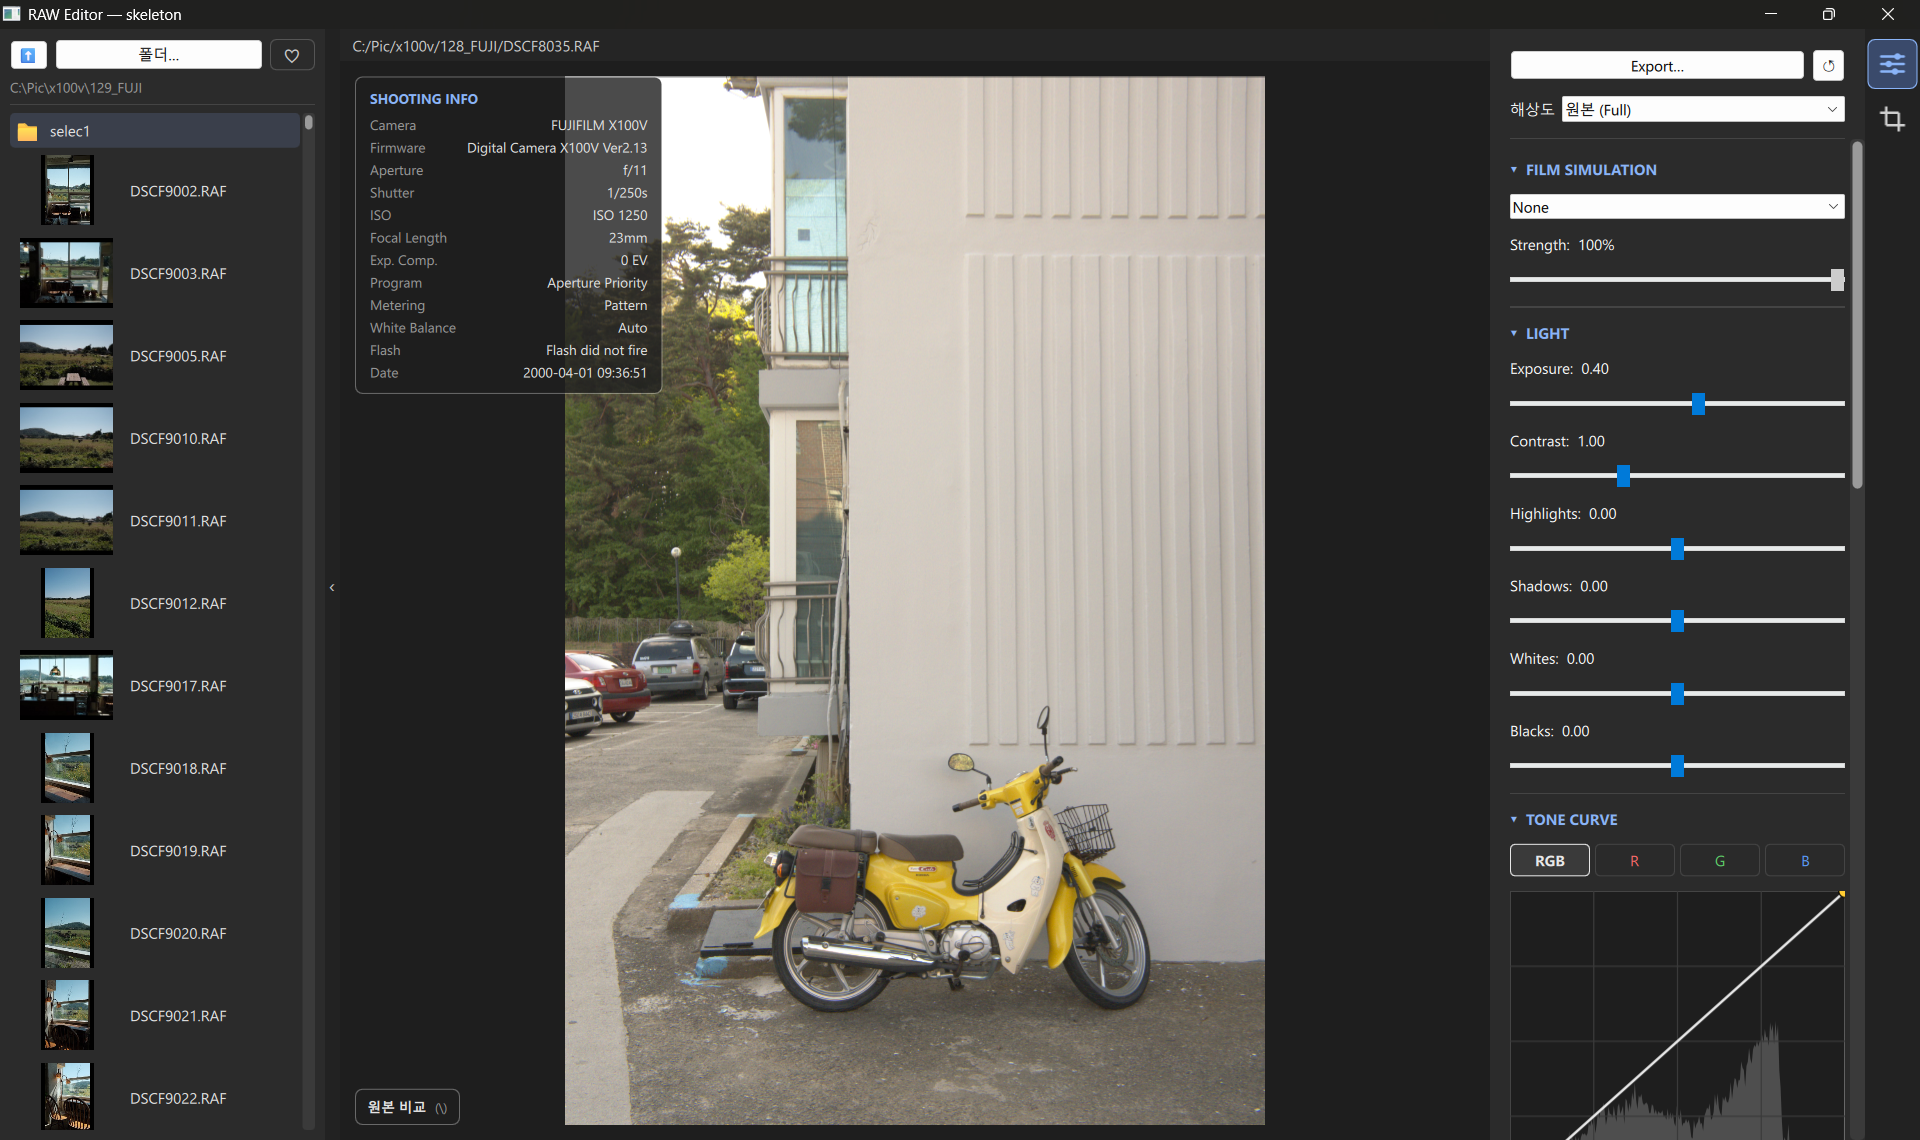
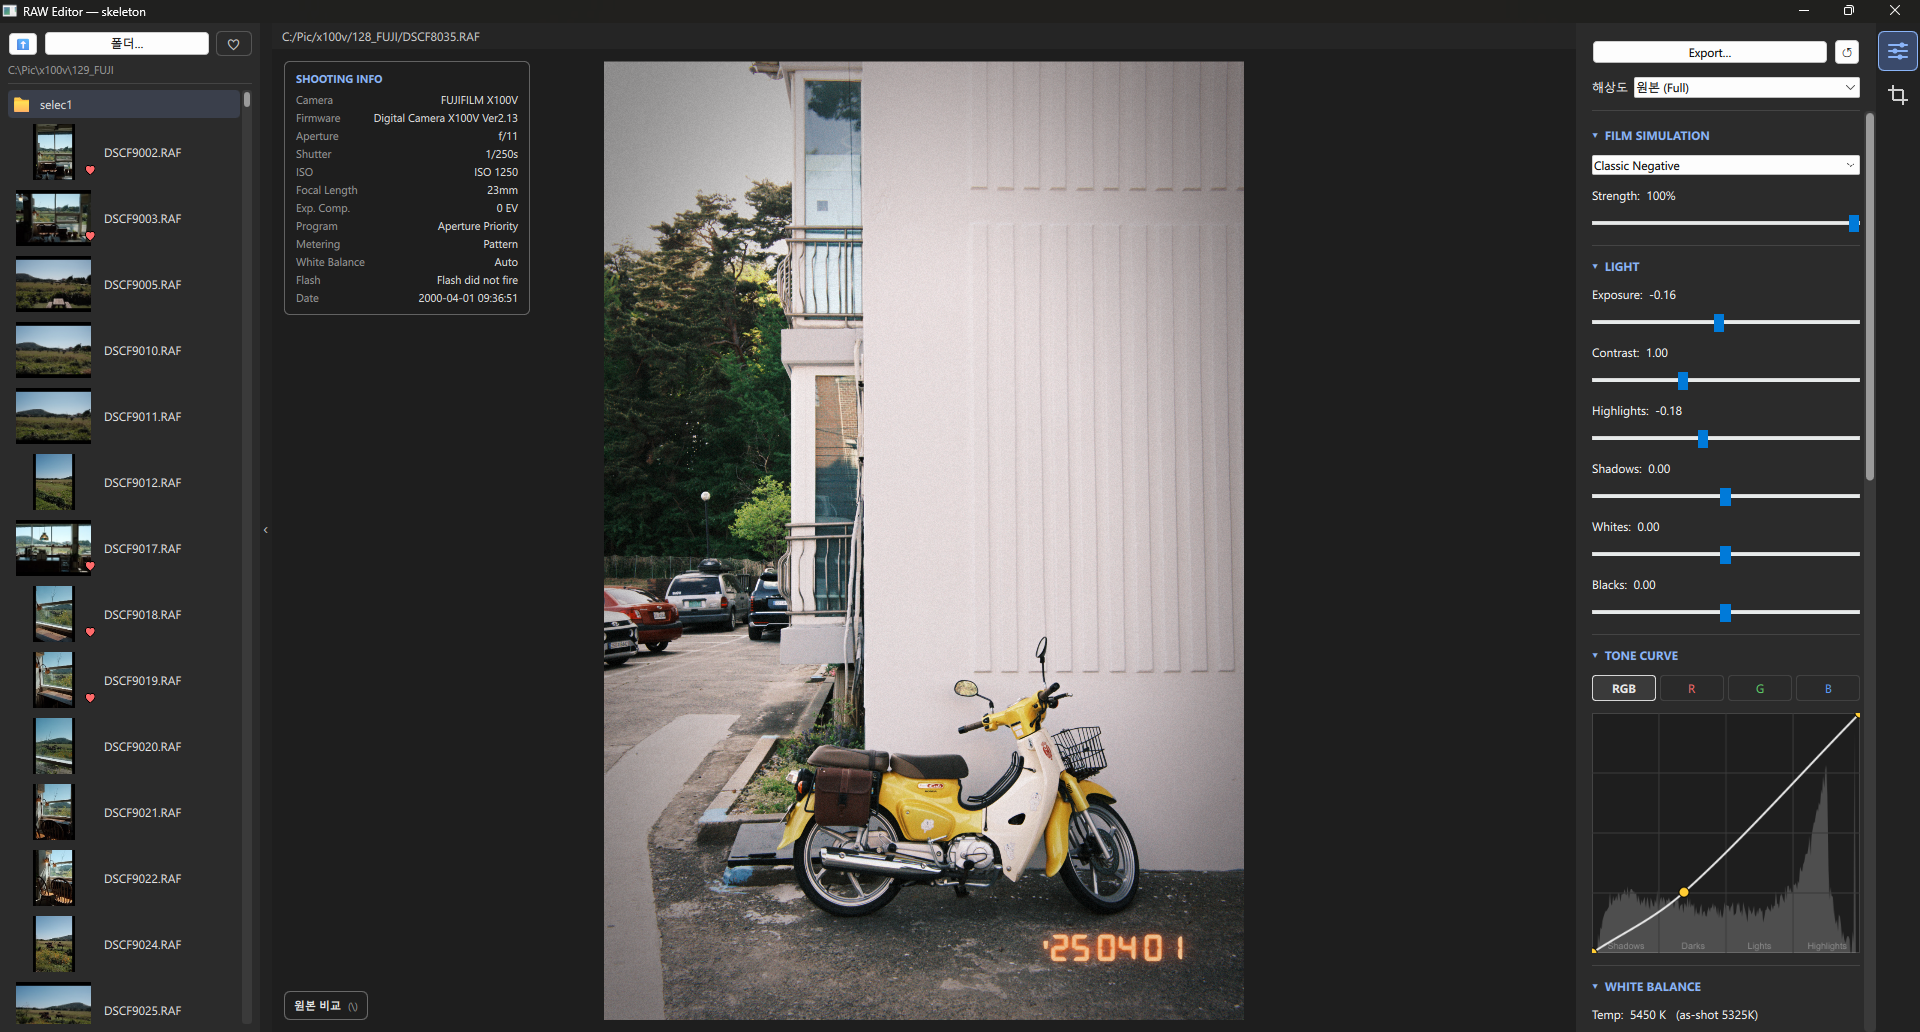
README: Shortcuts 섹션 제거 + 스크린샷 갱신

diff --git a/README.md b/README.md
@@ -47,9 +47,6 @@ Built-in X100V profile: distortion, vignetting, and chromatic aberration.
 - **Live histogram** reflecting current adjustments
 - **Full-resolution export** to JPEG / PNG / TIFF (background-threaded, UI stays responsive)
 
-### Shortcuts
-`\` before/after · `I` shooting info · `D` date stamp · `B` file explorer · `L` likes-only
-
 ---
 
 ## How it works